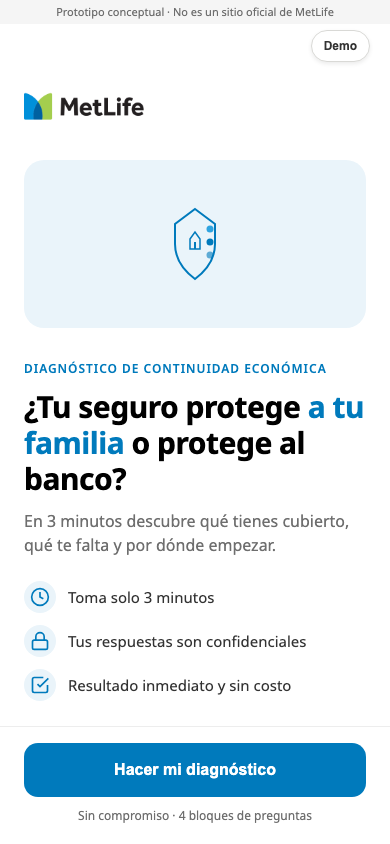
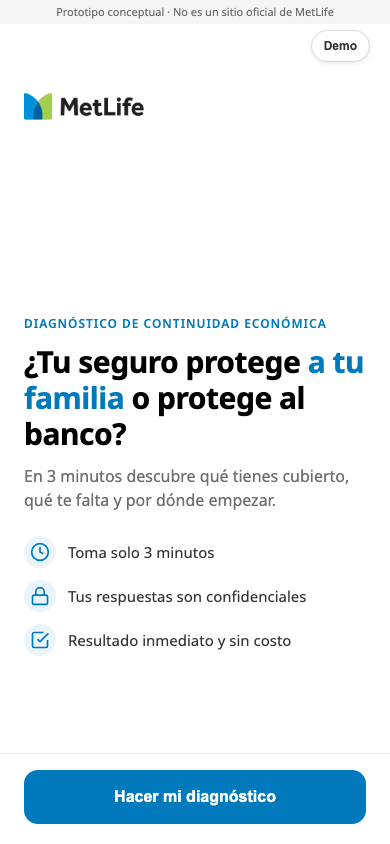
Screen 1 redesign: remove illustration, center content, and full viewport height
- Remove illustration-box from Screen 1
- Center content (tag, h1, subtitle, benefits) vertically
- Logo stays top-left, Demo button top-right
- Remove "Sin compromiso · 4 bloques de preguntas" meta text
- Content spans full available height with vertical centering
- Updated all 26 Playwright screenshots at 390×844 and 440×956

diff --git a/index.html b/index.html
@@ -271,14 +271,22 @@
             flex-direction: column;
             align-items: flex-start;
             text-align: left;
-            height: auto;
+            height: 100%;
             justify-content: flex-start;
+        }
+
+        .screen-1 .tag {
+            margin-top: auto;
+        }
+
+        .screen-1 .benefits {
+            margin-bottom: auto;
         }
 
         .logo-container {
             width: auto;
             height: 28px;
-            margin-bottom: 40px;
+            margin-bottom: auto;
             margin-top: 16px;
             background: transparent;
             border-radius: 0;
@@ -286,6 +294,7 @@
             align-items: center;
             justify-content: flex-start;
             padding: 0;
+            flex-shrink: 0;
         }
 
         .logo-container img {
@@ -295,14 +304,7 @@
         }
 
         .illustration-box {
-            width: 100%;
-            height: 168px;
-            background: #EAF4FA;
-            border-radius: 20px;
-            display: flex;
-            align-items: center;
-            justify-content: center;
-            margin-bottom: 32px;
+            display: none;
         }
 
         .illustration-svg {
@@ -1252,7 +1254,6 @@
                 </div>
                 <div class="screen-footer active" data-footer="1">
                     <button class="btn btn-primary" data-action="start-diagnosis">Hacer mi diagnóstico</button>
-                    <div class="btn-meta">Sin compromiso · 4 bloques de preguntas</div>
                 </div>
             </div>
 
